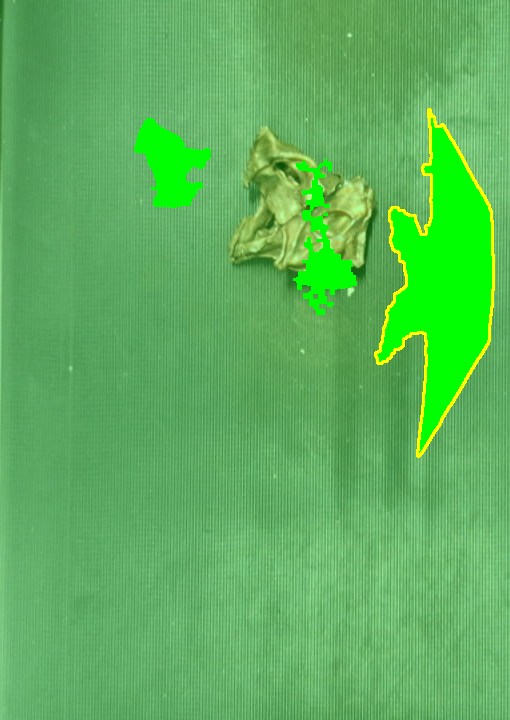
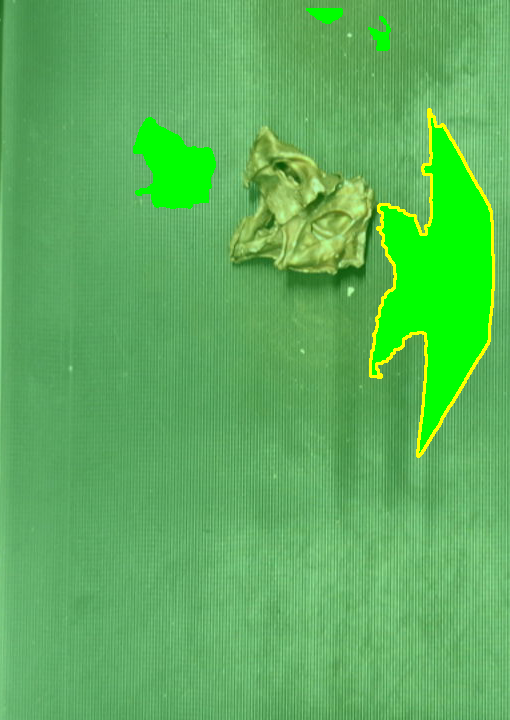
adding more data

diff --git a/rgbd/main.py b/rgbd/main.py
@@ -114,11 +114,21 @@ class RGBDCollectorApp:
 
         self.counter = self.next_capture_index()
         self.current_img_name = None
+        self.capture_crop = {"top": 0, "bottom": 0, "left": 250, "right": 520}
 
         self.captured_rgb = None
         self.captured_depth = None
         self.captured_mask = None
         self.captured_pcd = None
+        self.captured_mask_stats = None
+        self.captured_plane_model = None
+        self.captured_plane_inliers = None
+        self.captured_non_plane_pts = None
+        self.captured_intrinsics = None
+        self.raw_rgb_shape = None
+        self.raw_depth_shape = None
+        self.cropped_rgb_shape = None
+        self.cropped_depth_shape = None
         self.is_capturing = True
 
         self.video_frame = tk.Frame(root)
@@ -335,9 +345,27 @@ class RGBDCollectorApp:
             (depth_frame.get_height(), depth_frame.get_width())
         ).copy()
 
+        self.raw_rgb_shape = rgb.shape
+        self.raw_depth_shape = depth.shape
+
         # 2. Keep your original manual cropping boundaries
-        rgb, crop_x, crop_y = crop_manual(rgb, top=0, bottom=0, left=250, right=520)
-        depth, _, _ = crop_manual(depth, top=0, bottom=0, left=250, right=520)
+        crop = self.capture_crop
+        rgb, crop_x, crop_y = crop_manual(
+            rgb,
+            top=crop["top"],
+            bottom=crop["bottom"],
+            left=crop["left"],
+            right=crop["right"],
+        )
+        depth, _, _ = crop_manual(
+            depth,
+            top=crop["top"],
+            bottom=crop["bottom"],
+            left=crop["left"],
+            right=crop["right"],
+        )
+        self.cropped_rgb_shape = rgb.shape
+        self.cropped_depth_shape = depth.shape
 
         # 3. Adjust the intrinsics to match your cropped frame bounds
         intrinsics = self.cam.get_intrinsics()
@@ -375,6 +403,11 @@ class RGBDCollectorApp:
         self.captured_depth = depth
         self.captured_mask = mask
         self.captured_pcd = pcd
+        self.captured_intrinsics = adjusted_intrinsics
+        self.captured_plane_model = plane_model
+        self.captured_plane_inliers = inlier_count
+        self.captured_non_plane_pts = outlier_count
+        self.captured_mask_stats = self.analyze_mask(mask)
 
         # 6. Render the UI Preview Window layouts
         mask_viz = (mask * 255).astype(np.uint8)
@@ -411,6 +444,11 @@ class RGBDCollectorApp:
     def save_info_txt(
         self,
         img_name,
+        crop,
+        raw_rgb_shape,
+        raw_depth_shape,
+        cropped_rgb_shape,
+        cropped_depth_shape,
         rgb,
         depth,
         intrinsics,
@@ -421,6 +459,14 @@ class RGBDCollectorApp:
     ):
         txt_path = self.info_dir / f"{img_name}.txt"
         with open(txt_path, "w") as f:
+            f.write("Crop:\n")
+            f.write(
+                f"  top={crop['top']} bottom={crop['bottom']} left={crop['left']} right={crop['right']}\n"
+            )
+            f.write(f"Raw RGB shape: {raw_rgb_shape}\n")
+            f.write(f"Raw depth shape: {raw_depth_shape}\n")
+            f.write(f"Cropped RGB shape: {cropped_rgb_shape}\n")
+            f.write(f"Cropped depth shape: {cropped_depth_shape}\n")
             f.write(f"RGB shape: {rgb.shape}\n")
             f.write(f"Depth shape: {depth.shape}\n")
             f.write(f"Depth dtype: {depth.dtype}\n")
@@ -499,6 +545,25 @@ class RGBDCollectorApp:
                 "[ERROR] Cannot save .ply file: tracked application point cloud is empty!"
             )
 
+        if self.captured_plane_model is not None:
+            self.save_info_txt(
+                img_name,
+                self.capture_crop,
+                self.raw_rgb_shape,
+                self.raw_depth_shape,
+                self.cropped_rgb_shape,
+                self.cropped_depth_shape,
+                self.captured_rgb,
+                self.captured_depth,
+                self.captured_intrinsics or self.cam.get_intrinsics(),
+                self.captured_plane_model,
+                self.captured_plane_inliers,
+                self.captured_non_plane_pts,
+                mask_stats=self.captured_mask_stats,
+            )
+        else:
+            print("[WARNING] Skipping info.txt save because capture metadata is missing.")
+
         self.print_dataset_counts()
         self.counter = self.next_capture_index()
         self.current_img_name = None
@@ -521,6 +586,15 @@ class RGBDCollectorApp:
         self.captured_depth = None
         self.captured_mask = None
         self.captured_pcd = None
+        self.captured_mask_stats = None
+        self.captured_plane_model = None
+        self.captured_plane_inliers = None
+        self.captured_non_plane_pts = None
+        self.captured_intrinsics = None
+        self.raw_rgb_shape = None
+        self.raw_depth_shape = None
+        self.cropped_rgb_shape = None
+        self.cropped_depth_shape = None
         self.current_img_name = None
         self.is_capturing = True
         self.capture_btn.config(state=tk.NORMAL)

diff --git a/offline_case/evaluate_case.py b/offline_case/evaluate_case.py
@@ -113,7 +113,7 @@ def main():
         "--stem",
         type=str,
         default=default_stem,
-        help="Sample stem name, for example img0935",
+        help="Sample stem name, for example img0932",
     )
     parser.add_argument(
         "--reference-mask",

diff --git a/rgbd/tools/offline_mask_eval.py b/rgbd/tools/offline_mask_eval.py
@@ -65,7 +65,7 @@ def parse_intrinsics_info(info_path):
         rows = []
         for line in matrix_lines:
             row = [float(v) for v in line.replace(",", " ").split()]
-            if len(row) != 4:
+            if len(row) != 3:
                 raise ValueError(f"Invalid intrinsics matrix row in {info_path}: {line}")
             rows.append(row)
         mat = np.array(rows, dtype=np.float64)